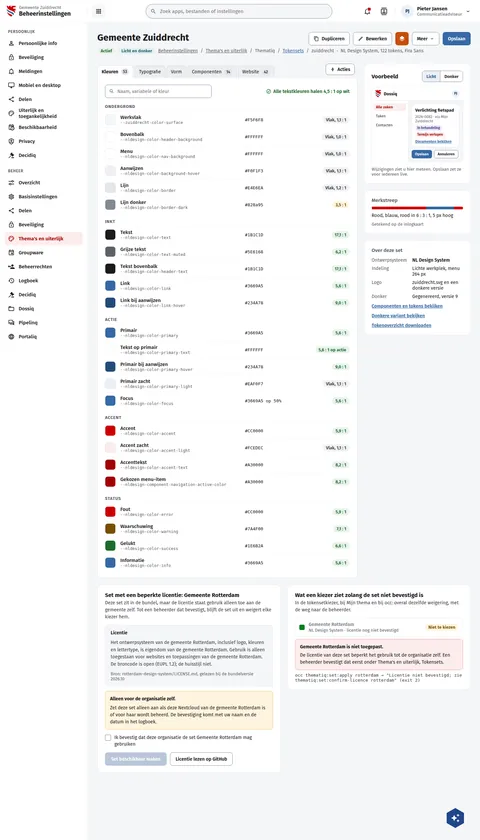
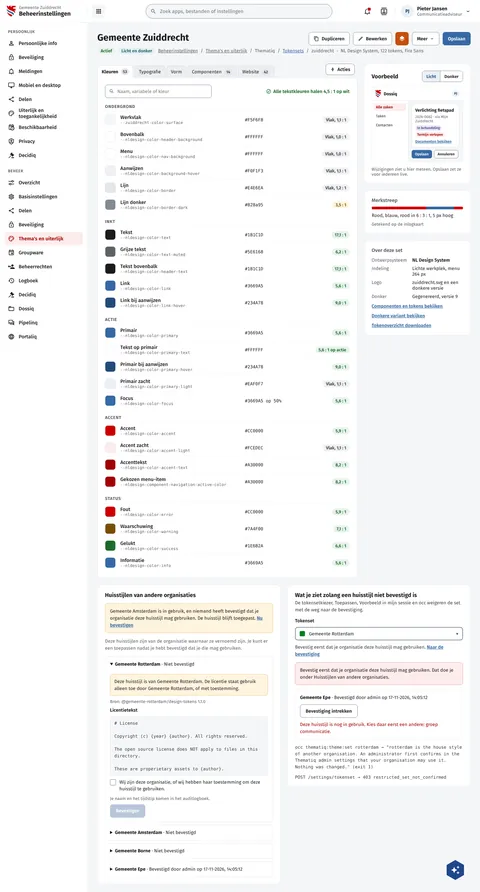
feat(screens): TqTokenSet draws the licence block thematiq ships
The restricted-licence part of the board predated the build and drew a
flow that was never made (a per-set page with "Set beschikbaar maken" and
a GitHub link, an occ command thematiq:set:apply that does not exist).
It now shows the block as thematiq renders it (js/admin-set-licence.js,
token-set-licence-gate): Huisstijlen van andere organisaties with the
awaiting alert, one row per restricted set with its status, the warning,
the source package and version, the shipped licence text, the statement,
the audit hint and Bevestigen; and what the token set picker hint, the
refused apply, the refused withdrawal, occ thematiq:theme:set and the
403 restricted_set_not_confirmed say. Texts are the app's own Dutch and
English strings; the Rotterdam source and licence text are the ones
thematiq ships.

Assisted-by: ClaudeCode:claude-opus-5-5

diff --git a/preview/screens/boards/TqTokenSet.html b/preview/screens/boards/TqTokenSet.html
@@ -413,8 +413,14 @@ a{color:var(--sc-primary, #3669a5)}a:hover{color:var(--sc-primary-deep, #234a78)
           </aside>
         </div>
         <div style="display: grid; grid-template-columns: repeat(auto-fit, minmax(420px, 1fr)); gap: 20px; align-items: start">
-          <section aria-labelledby="tk-licentie" style="background: #ffffff; border: 1px solid var(--sc-work-line, #e4e6ea); border-radius: 12px; padding: 20px 22px; display: flex; flex-direction: column; gap: 14px; min-width: 0"><div style="display: flex; flex-direction: column; gap: 2px"><h2 id="tk-licentie" style="margin: 0; font-size: 17px; font-weight: 700">Set met een beperkte licentie: Gemeente Rotterdam</h2><p style="margin: 0; font-size: 14px; line-height: 1.5; color: var(--sc-work-text, #3d4047)">Deze set zit in de bundel, maar de licentie staat gebruik alleen toe aan de gemeente zelf. Tot een beheerder dat bevestigt, blijft de set uit en weigert elke kiezer hem.</p></div><div style="display: flex; flex-direction: column; gap: 10px; padding: 14px 16px; border: 1px solid var(--sc-work-line, #e4e6ea); border-radius: 8px; background: var(--sc-work-ground, #f5f6f8)"><span style="font-size: 14px; font-weight: 600">Licentie</span><p style="margin: 0; font-size: 14px; line-height: 1.55; color: var(--sc-work-text, #3d4047)">Het ontwerpsysteem van de gemeente Rotterdam, inclusief logo, kleuren en lettertype, is eigendom van de gemeente Rotterdam. Gebruik is alleen toegestaan voor websites en toepassingen van de gemeente Rotterdam. De broncode is open (EUPL 1.2); de huisstijl niet.</p><span style="font-size: 13px; color: var(--sc-work-muted, #5e6168)">Bron: rotterdam-design-system/LICENSE.md, gelezen bij de bundelversie 2026.10</span></div><div role="alert" style="display: flex; flex-direction: column; gap: 6px; padding: 12px 14px; border-radius: 8px; background: #fff4de; border: 1px solid #e8c77d; font-size: 14px; line-height: 1.5; color: var(--sc-work-ink, #1b1c1d)"><strong>Alleen voor de organisatie zelf.</strong><span>Zet deze set alleen aan als deze Nextcloud van de gemeente Rotterdam is of voor haar wordt beheerd. De bevestiging komt met uw naam en de datum in het logboek.</span></div><label style="display: flex; gap: 10px; align-items: flex-start; font-size: 14px; line-height: 1.45"><input type="checkbox" style="width: 18px; height: 18px; margin: 1px 0 0; accent-color: var(--sc-primary, #3669a5); flex: none"><span>Ik bevestig dat deze organisatie de set Gemeente Rotterdam mag gebruiken</span></label><div style="display: flex; flex-wrap: wrap; gap: 10px"><button type="button" disabled aria-disabled="true" style="display: inline-flex; align-items: center; gap: 8px; height: 40px; box-sizing: border-box; padding: 0 18px; border-radius: 8px; font: 600 14px var(--sc-font, 'Fira Sans'), sans-serif; white-space: nowrap; border: 0; background: var(--sc-primary, #3669a5); color: #ffffff; background: #b9c6d9">Set beschikbaar maken</button><button type="button" style="display: inline-flex; align-items: center; gap: 8px; height: 40px; box-sizing: border-box; padding: 0 16px; border-radius: 8px; font: 600 14px var(--sc-font, 'Fira Sans'), sans-serif; white-space: nowrap; border: 1px solid var(--sc-work-field, #828a95); background: #ffffff; color: var(--sc-work-ink, #1b1c1d)">Licentie lezen op GitHub</button></div></section>
-          <section aria-labelledby="tk-geweigerd" style="background: #ffffff; border: 1px solid var(--sc-work-line, #e4e6ea); border-radius: 12px; padding: 20px 22px; display: flex; flex-direction: column; gap: 14px; min-width: 0"><div style="display: flex; flex-direction: column; gap: 2px"><h2 id="tk-geweigerd" style="margin: 0; font-size: 17px; font-weight: 700">Wat een kiezer ziet zolang de set niet bevestigd is</h2><p style="margin: 0; font-size: 14px; line-height: 1.5; color: var(--sc-work-text, #3d4047)">In de tokensetkiezer, bij Mijn thema en bij occ: overal dezelfde weigering, met de weg naar de beheerder.</p></div><div style="display: flex; flex-direction: column; gap: 8px"><div style="display: flex; align-items: center; gap: 12px; padding: 10px 12px; border: 1px solid var(--sc-work-line, #e4e6ea); border-radius: 8px"><span style="width: 16px; height: 16px; border-radius: 4px; background: #00811f"></span><span style="flex: 1; display: flex; flex-direction: column; gap: 1px"><span style="font-size: 14px; font-weight: 600; color: var(--sc-work-field, #828a95)">Gemeente Rotterdam</span><span style="font-size: 13px; color: var(--sc-work-muted, #5e6168)">NL Design System · licentie nog niet bevestigd</span></span><span style="padding: 3px 10px; border-radius: 12px; font-size: 13px; font-weight: 600; background: #fff4de; color: #7a4f00">Niet te kiezen</span></div><div role="alert" style="display: flex; flex-direction: column; gap: 4px; padding: 12px 14px; border-radius: 8px; background: #fcedec; border: 1px solid #e5a3a0; font-size: 14px; line-height: 1.5; color: var(--sc-work-ink, #1b1c1d)"><strong>Gemeente Rotterdam is niet toegepast.</strong><span>De licentie van deze set beperkt het gebruik tot de organisatie zelf. Een beheerder bevestigt dat eerst onder Thema's en uiterlijk, Tokensets.</span></div><span style="font: 400 13px ui-monospace, Menlo, monospace; color: var(--sc-work-text, #3d4047)">occ thematiq:set:apply rotterdam → "Licentie niet bevestigd; zie thematiq:set:confirm-licence rotterdam" (exit 2)</span></div></section>
+          <section aria-labelledby="tk-licentie" style="background: #ffffff; border: 1px solid var(--sc-work-line, #e4e6ea); border-radius: 12px; padding: 20px 22px; display: flex; flex-direction: column; gap: 14px; min-width: 0"><h2 id="tk-licentie" style="margin: 0; font-size: 17px; font-weight: 700">Huisstijlen van andere organisaties</h2><div role="alert" style="display: flex; flex-direction: column; gap: 4px; padding: 12px 14px; border-radius: 8px; background: #fff4de; border: 1px solid #e8c77d; font-size: 14px; line-height: 1.5; color: var(--sc-work-ink, #1b1c1d)"><span>Gemeente Amsterdam is in gebruik, en niemand heeft bevestigd dat je organisatie deze huisstijl mag gebruiken. De huisstijl blijft toegepast. <a href="#tk-licentie" style="font-weight: 600">Nu bevestigen</a></span></div><p style="margin: 0; font-size: 14px; line-height: 1.5; color: var(--sc-work-muted, #5e6168)">Deze huisstijlen zijn van de organisatie waarnaar ze vernoemd zijn. Je kunt er een toepassen nadat je hebt bevestigd dat je die mag gebruiken.</p><div style="display: flex; flex-direction: column; gap: 8px"><details open style="display: flex; flex-direction: column; gap: 10px; padding: 12px 14px; border: 1px solid var(--sc-work-line, #e4e6ea); border-radius: 8px"><summary style="font-size: 14px; line-height: 1.5; cursor: pointer"><strong>Gemeente Rotterdam</strong> · Niet bevestigd</summary><div style="display: flex; flex-direction: column; gap: 10px; padding-top: 10px"><p role="note" style="margin: 0; padding: 10px 12px; border-radius: 8px; background: #fff4de; border: 1px solid #e8c77d; font-size: 14px; line-height: 1.5; color: var(--sc-work-ink, #1b1c1d)">Deze huisstijl is van Gemeente Rotterdam. De licentie staat gebruik alleen toe door Gemeente Rotterdam, of met toestemming.</p><p style="margin: 0; font-size: 13px; color: var(--sc-work-muted, #5e6168)">Bron: @gemeente-rotterdam/design-tokens 1.1.0</p><h4 style="margin: 0; font-size: 14px; font-weight: 600">Licentietekst</h4><pre tabindex="0" style="margin: 0; padding: 10px 12px; max-height: 160px; overflow: auto; border: 1px solid var(--sc-work-line, #e4e6ea); border-radius: 8px; background: var(--sc-work-ground, #f5f6f8); font: 400 13px/1.5 ui-monospace, Menlo, monospace; color: var(--sc-work-text, #3d4047); white-space: pre-wrap"># License
+
+Copyright (c) {year} {author}. All rights reserved.
+
+The open source license does NOT apply to files in this directory.
+
+These are properietary assets to {author}.</pre><p style="margin: 0; display: flex; gap: 10px; align-items: flex-start; font-size: 14px; line-height: 1.45"><input type="checkbox" id="tk-licentie-check" style="width: 18px; height: 18px; margin: 1px 0 0; accent-color: var(--sc-primary, #3669a5); flex: none"><label for="tk-licentie-check">Wij zijn deze organisatie, of wij hebben haar toestemming om deze huisstijl te gebruiken.</label></p><p style="margin: 0; font-size: 13px; color: var(--sc-work-muted, #5e6168)">Je naam en het tijdstip komen in het auditlogboek.</p><div><button type="button" disabled aria-disabled="true" style="display: inline-flex; align-items: center; height: 40px; box-sizing: border-box; padding: 0 18px; border-radius: 8px; font: 600 14px var(--sc-font, 'Fira Sans'), sans-serif; white-space: nowrap; border: 0; color: #ffffff; background: #b9c6d9">Bevestigen</button></div></div></details><details style="padding: 12px 14px; border: 1px solid var(--sc-work-line, #e4e6ea); border-radius: 8px"><summary style="font-size: 14px; line-height: 1.5; cursor: pointer"><strong>Gemeente Amsterdam</strong> · Niet bevestigd</summary></details><details style="padding: 12px 14px; border: 1px solid var(--sc-work-line, #e4e6ea); border-radius: 8px"><summary style="font-size: 14px; line-height: 1.5; cursor: pointer"><strong>Gemeente Borne</strong> · Niet bevestigd</summary></details><details style="padding: 12px 14px; border: 1px solid var(--sc-work-line, #e4e6ea); border-radius: 8px"><summary style="font-size: 14px; line-height: 1.5; cursor: pointer"><strong>Gemeente Epe</strong> · Bevestigd door admin op 17-11-2026, 14:05:12</summary></details></div></section>
+          <section aria-labelledby="tk-geweigerd" style="background: #ffffff; border: 1px solid var(--sc-work-line, #e4e6ea); border-radius: 12px; padding: 20px 22px; display: flex; flex-direction: column; gap: 14px; min-width: 0"><div style="display: flex; flex-direction: column; gap: 2px"><h2 id="tk-geweigerd" style="margin: 0; font-size: 17px; font-weight: 700">Wat je ziet zolang een huisstijl niet bevestigd is</h2><p style="margin: 0; font-size: 14px; line-height: 1.5; color: var(--sc-work-text, #3d4047)">De tokensetkiezer, Toepassen, Voorbeeld in mijn sessie en occ weigeren de set met de weg naar de bevestiging.</p></div><div style="display: flex; flex-direction: column; gap: 10px"><span style="font-size: 14px; font-weight: 600">Tokenset</span><div style="display: flex; align-items: center; gap: 12px; height: 40px; box-sizing: border-box; padding: 0 12px; border: 2px solid var(--sc-work-field, #828a95); border-radius: 8px; font-size: 14px"><span style="width: 16px; height: 16px; border-radius: 4px; background: #00811f"></span><span style="flex: 1">Gemeente Rotterdam</span><span aria-hidden="true" style="color: var(--sc-work-muted, #5e6168)">▾</span></div><p role="status" style="margin: 0; font-size: 14px; line-height: 1.5; color: var(--sc-work-text, #3d4047)">Bevestig eerst dat je organisatie deze huisstijl mag gebruiken. <a href="#tk-licentie" style="font-weight: 600">Naar de bevestiging</a></p></div><div role="alert" style="display: flex; flex-direction: column; gap: 4px; padding: 12px 14px; border-radius: 8px; background: #fcedec; border: 1px solid #e5a3a0; font-size: 14px; line-height: 1.5; color: var(--sc-work-ink, #1b1c1d)"><span>Bevestig eerst dat je organisatie deze huisstijl mag gebruiken. Dat doe je onder Huisstijlen van andere organisaties.</span></div><div style="display: flex; flex-direction: column; gap: 10px; padding: 12px 14px; border: 1px solid var(--sc-work-line, #e4e6ea); border-radius: 8px"><span style="font-size: 14px; line-height: 1.5"><strong>Gemeente Epe</strong> · Bevestigd door admin op 17-11-2026, 14:05:12</span><div><button type="button" style="display: inline-flex; align-items: center; height: 40px; box-sizing: border-box; padding: 0 16px; border-radius: 8px; font: 600 14px var(--sc-font, 'Fira Sans'), sans-serif; white-space: nowrap; border: 1px solid var(--sc-work-field, #828a95); background: #ffffff; color: var(--sc-work-ink, #1b1c1d)">Bevestiging intrekken</button></div><p role="status" style="margin: 0; font-size: 14px; line-height: 1.5; color: var(--sc-accent-deep, #a30000)">Deze huisstijl is nog in gebruik. Kies daar eerst een andere: groep communicatie.</p></div><span style="font: 400 13px ui-monospace, Menlo, monospace; color: var(--sc-work-text, #3d4047); line-height: 1.5">occ thematiq:theme:set rotterdam → "rotterdam is the house style of another organisation. An administrator first confirms in the Thematiq admin settings that your organisation may use it. Nothing was changed." (exit 1)</span><span style="font: 400 13px ui-monospace, Menlo, monospace; color: var(--sc-work-text, #3d4047)">POST /settings/tokenset → 403 restricted_set_not_confirmed</span></section>
         </div>
       </main>
     </div>

diff --git a/screens-src/zuiddrecht/TqTokenSet.dc.html b/screens-src/zuiddrecht/TqTokenSet.dc.html
@@ -143,8 +143,14 @@ a{color:#3669a5}a:hover{color:#234a78}
           </aside>
         </div>
         <div style="display: grid; grid-template-columns: repeat(auto-fit, minmax(420px, 1fr)); gap: 20px; align-items: start">
-          <section aria-labelledby="tk-licentie" style="background: #ffffff; border: 1px solid #e4e6ea; border-radius: 12px; padding: 20px 22px; display: flex; flex-direction: column; gap: 14px; min-width: 0"><div style="display: flex; flex-direction: column; gap: 2px"><h2 id="tk-licentie" style="margin: 0; font-size: 17px; font-weight: 700">Set met een beperkte licentie: Gemeente Rotterdam</h2><p style="margin: 0; font-size: 14px; line-height: 1.5; color: #3d4047">Deze set zit in de bundel, maar de licentie staat gebruik alleen toe aan de gemeente zelf. Tot een beheerder dat bevestigt, blijft de set uit en weigert elke kiezer hem.</p></div><div style="display: flex; flex-direction: column; gap: 10px; padding: 14px 16px; border: 1px solid #e4e6ea; border-radius: 8px; background: #f5f6f8"><span style="font-size: 14px; font-weight: 600">Licentie</span><p style="margin: 0; font-size: 14px; line-height: 1.55; color: #3d4047">Het ontwerpsysteem van de gemeente Rotterdam, inclusief logo, kleuren en lettertype, is eigendom van de gemeente Rotterdam. Gebruik is alleen toegestaan voor websites en toepassingen van de gemeente Rotterdam. De broncode is open (EUPL 1.2); de huisstijl niet.</p><span style="font-size: 13px; color: #5e6168">Bron: rotterdam-design-system/LICENSE.md, gelezen bij de bundelversie 2026.10</span></div><div role="alert" style="display: flex; flex-direction: column; gap: 6px; padding: 12px 14px; border-radius: 8px; background: #fff4de; border: 1px solid #e8c77d; font-size: 14px; line-height: 1.5; color: #1b1c1d"><strong>Alleen voor de organisatie zelf.</strong><span>Zet deze set alleen aan als deze Nextcloud van de gemeente Rotterdam is of voor haar wordt beheerd. De bevestiging komt met uw naam en de datum in het logboek.</span></div><label style="display: flex; gap: 10px; align-items: flex-start; font-size: 14px; line-height: 1.45"><input type="checkbox" style="width: 18px; height: 18px; margin: 1px 0 0; accent-color: #3669a5; flex: none"><span>Ik bevestig dat deze organisatie de set Gemeente Rotterdam mag gebruiken</span></label><div style="display: flex; flex-wrap: wrap; gap: 10px"><button type="button" disabled aria-disabled="true" style="display: inline-flex; align-items: center; gap: 8px; height: 40px; box-sizing: border-box; padding: 0 18px; border-radius: 8px; font: 600 14px 'Fira Sans', sans-serif; white-space: nowrap; border: 0; background: #3669a5; color: #ffffff; background: #b9c6d9">Set beschikbaar maken</button><button type="button" style="display: inline-flex; align-items: center; gap: 8px; height: 40px; box-sizing: border-box; padding: 0 16px; border-radius: 8px; font: 600 14px 'Fira Sans', sans-serif; white-space: nowrap; border: 1px solid #828a95; background: #ffffff; color: #1b1c1d">Licentie lezen op GitHub</button></div></section>
-          <section aria-labelledby="tk-geweigerd" style="background: #ffffff; border: 1px solid #e4e6ea; border-radius: 12px; padding: 20px 22px; display: flex; flex-direction: column; gap: 14px; min-width: 0"><div style="display: flex; flex-direction: column; gap: 2px"><h2 id="tk-geweigerd" style="margin: 0; font-size: 17px; font-weight: 700">Wat een kiezer ziet zolang de set niet bevestigd is</h2><p style="margin: 0; font-size: 14px; line-height: 1.5; color: #3d4047">In de tokensetkiezer, bij Mijn thema en bij occ: overal dezelfde weigering, met de weg naar de beheerder.</p></div><div style="display: flex; flex-direction: column; gap: 8px"><div style="display: flex; align-items: center; gap: 12px; padding: 10px 12px; border: 1px solid #e4e6ea; border-radius: 8px"><span style="width: 16px; height: 16px; border-radius: 4px; background: #00811f"></span><span style="flex: 1; display: flex; flex-direction: column; gap: 1px"><span style="font-size: 14px; font-weight: 600; color: #828a95">Gemeente Rotterdam</span><span style="font-size: 13px; color: #5e6168">NL Design System · licentie nog niet bevestigd</span></span><span style="padding: 3px 10px; border-radius: 12px; font-size: 13px; font-weight: 600; background: #fff4de; color: #7a4f00">Niet te kiezen</span></div><div role="alert" style="display: flex; flex-direction: column; gap: 4px; padding: 12px 14px; border-radius: 8px; background: #fcedec; border: 1px solid #e5a3a0; font-size: 14px; line-height: 1.5; color: #1b1c1d"><strong>Gemeente Rotterdam is niet toegepast.</strong><span>De licentie van deze set beperkt het gebruik tot de organisatie zelf. Een beheerder bevestigt dat eerst onder Thema's en uiterlijk, Tokensets.</span></div><span style="font: 400 13px ui-monospace, Menlo, monospace; color: #3d4047">occ thematiq:set:apply rotterdam → "Licentie niet bevestigd; zie thematiq:set:confirm-licence rotterdam" (exit 2)</span></div></section>
+          <section aria-labelledby="tk-licentie" style="background: #ffffff; border: 1px solid #e4e6ea; border-radius: 12px; padding: 20px 22px; display: flex; flex-direction: column; gap: 14px; min-width: 0"><h2 id="tk-licentie" style="margin: 0; font-size: 17px; font-weight: 700">Huisstijlen van andere organisaties</h2><div role="alert" style="display: flex; flex-direction: column; gap: 4px; padding: 12px 14px; border-radius: 8px; background: #fff4de; border: 1px solid #e8c77d; font-size: 14px; line-height: 1.5; color: #1b1c1d"><span>Gemeente Amsterdam is in gebruik, en niemand heeft bevestigd dat je organisatie deze huisstijl mag gebruiken. De huisstijl blijft toegepast. <a href="#tk-licentie" style="font-weight: 600">Nu bevestigen</a></span></div><p style="margin: 0; font-size: 14px; line-height: 1.5; color: #5e6168">Deze huisstijlen zijn van de organisatie waarnaar ze vernoemd zijn. Je kunt er een toepassen nadat je hebt bevestigd dat je die mag gebruiken.</p><div style="display: flex; flex-direction: column; gap: 8px"><details open style="display: flex; flex-direction: column; gap: 10px; padding: 12px 14px; border: 1px solid #e4e6ea; border-radius: 8px"><summary style="font-size: 14px; line-height: 1.5; cursor: pointer"><strong>Gemeente Rotterdam</strong> · Niet bevestigd</summary><div style="display: flex; flex-direction: column; gap: 10px; padding-top: 10px"><p role="note" style="margin: 0; padding: 10px 12px; border-radius: 8px; background: #fff4de; border: 1px solid #e8c77d; font-size: 14px; line-height: 1.5; color: #1b1c1d">Deze huisstijl is van Gemeente Rotterdam. De licentie staat gebruik alleen toe door Gemeente Rotterdam, of met toestemming.</p><p style="margin: 0; font-size: 13px; color: #5e6168">Bron: @gemeente-rotterdam/design-tokens 1.1.0</p><h4 style="margin: 0; font-size: 14px; font-weight: 600">Licentietekst</h4><pre tabindex="0" style="margin: 0; padding: 10px 12px; max-height: 160px; overflow: auto; border: 1px solid #e4e6ea; border-radius: 8px; background: #f5f6f8; font: 400 13px/1.5 ui-monospace, Menlo, monospace; color: #3d4047; white-space: pre-wrap"># License
+
+Copyright (c) {year} {author}. All rights reserved.
+
+The open source license does NOT apply to files in this directory.
+
+These are properietary assets to {author}.</pre><p style="margin: 0; display: flex; gap: 10px; align-items: flex-start; font-size: 14px; line-height: 1.45"><input type="checkbox" id="tk-licentie-check" style="width: 18px; height: 18px; margin: 1px 0 0; accent-color: #3669a5; flex: none"><label for="tk-licentie-check">Wij zijn deze organisatie, of wij hebben haar toestemming om deze huisstijl te gebruiken.</label></p><p style="margin: 0; font-size: 13px; color: #5e6168">Je naam en het tijdstip komen in het auditlogboek.</p><div><button type="button" disabled aria-disabled="true" style="display: inline-flex; align-items: center; height: 40px; box-sizing: border-box; padding: 0 18px; border-radius: 8px; font: 600 14px 'Fira Sans', sans-serif; white-space: nowrap; border: 0; color: #ffffff; background: #b9c6d9">Bevestigen</button></div></div></details><details style="padding: 12px 14px; border: 1px solid #e4e6ea; border-radius: 8px"><summary style="font-size: 14px; line-height: 1.5; cursor: pointer"><strong>Gemeente Amsterdam</strong> · Niet bevestigd</summary></details><details style="padding: 12px 14px; border: 1px solid #e4e6ea; border-radius: 8px"><summary style="font-size: 14px; line-height: 1.5; cursor: pointer"><strong>Gemeente Borne</strong> · Niet bevestigd</summary></details><details style="padding: 12px 14px; border: 1px solid #e4e6ea; border-radius: 8px"><summary style="font-size: 14px; line-height: 1.5; cursor: pointer"><strong>Gemeente Epe</strong> · Bevestigd door admin op 17-11-2026, 14:05:12</summary></details></div></section>
+          <section aria-labelledby="tk-geweigerd" style="background: #ffffff; border: 1px solid #e4e6ea; border-radius: 12px; padding: 20px 22px; display: flex; flex-direction: column; gap: 14px; min-width: 0"><div style="display: flex; flex-direction: column; gap: 2px"><h2 id="tk-geweigerd" style="margin: 0; font-size: 17px; font-weight: 700">Wat je ziet zolang een huisstijl niet bevestigd is</h2><p style="margin: 0; font-size: 14px; line-height: 1.5; color: #3d4047">De tokensetkiezer, Toepassen, Voorbeeld in mijn sessie en occ weigeren de set met de weg naar de bevestiging.</p></div><div style="display: flex; flex-direction: column; gap: 10px"><span style="font-size: 14px; font-weight: 600">Tokenset</span><div style="display: flex; align-items: center; gap: 12px; height: 40px; box-sizing: border-box; padding: 0 12px; border: 2px solid #828a95; border-radius: 8px; font-size: 14px"><span style="width: 16px; height: 16px; border-radius: 4px; background: #00811f"></span><span style="flex: 1">Gemeente Rotterdam</span><span aria-hidden="true" style="color: #5e6168">▾</span></div><p role="status" style="margin: 0; font-size: 14px; line-height: 1.5; color: #3d4047">Bevestig eerst dat je organisatie deze huisstijl mag gebruiken. <a href="#tk-licentie" style="font-weight: 600">Naar de bevestiging</a></p></div><div role="alert" style="display: flex; flex-direction: column; gap: 4px; padding: 12px 14px; border-radius: 8px; background: #fcedec; border: 1px solid #e5a3a0; font-size: 14px; line-height: 1.5; color: #1b1c1d"><span>Bevestig eerst dat je organisatie deze huisstijl mag gebruiken. Dat doe je onder Huisstijlen van andere organisaties.</span></div><div style="display: flex; flex-direction: column; gap: 10px; padding: 12px 14px; border: 1px solid #e4e6ea; border-radius: 8px"><span style="font-size: 14px; line-height: 1.5"><strong>Gemeente Epe</strong> · Bevestigd door admin op 17-11-2026, 14:05:12</span><div><button type="button" style="display: inline-flex; align-items: center; height: 40px; box-sizing: border-box; padding: 0 16px; border-radius: 8px; font: 600 14px 'Fira Sans', sans-serif; white-space: nowrap; border: 1px solid #828a95; background: #ffffff; color: #1b1c1d">Bevestiging intrekken</button></div><p role="status" style="margin: 0; font-size: 14px; line-height: 1.5; color: #a30000">Deze huisstijl is nog in gebruik. Kies daar eerst een andere: groep communicatie.</p></div><span style="font: 400 13px ui-monospace, Menlo, monospace; color: #3d4047; line-height: 1.5">occ thematiq:theme:set rotterdam → "rotterdam is the house style of another organisation. An administrator first confirms in the Thematiq admin settings that your organisation may use it. Nothing was changed." (exit 1)</span><span style="font: 400 13px ui-monospace, Menlo, monospace; color: #3d4047">POST /settings/tokenset → 403 restricted_set_not_confirmed</span></section>
         </div>
       </main>
     </div>
